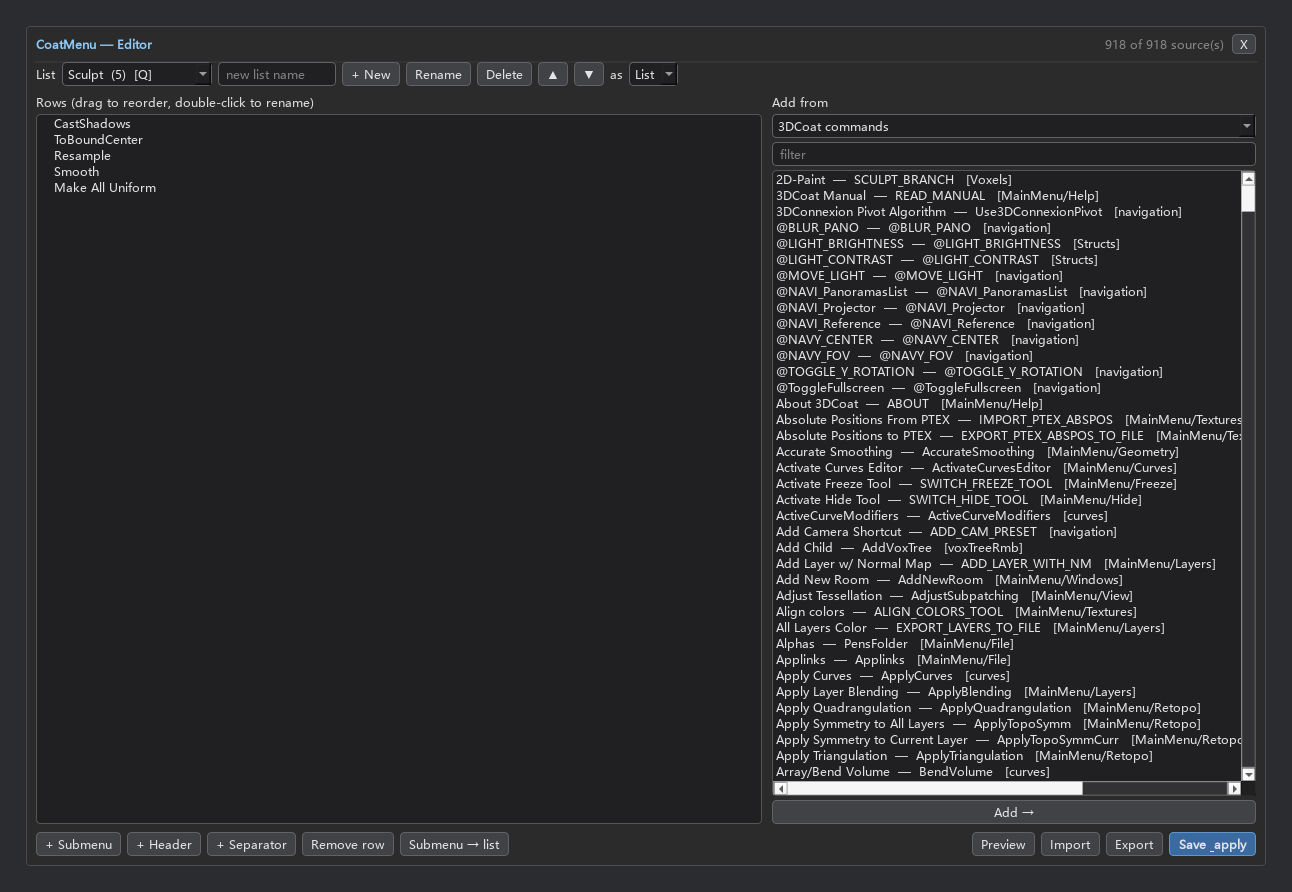
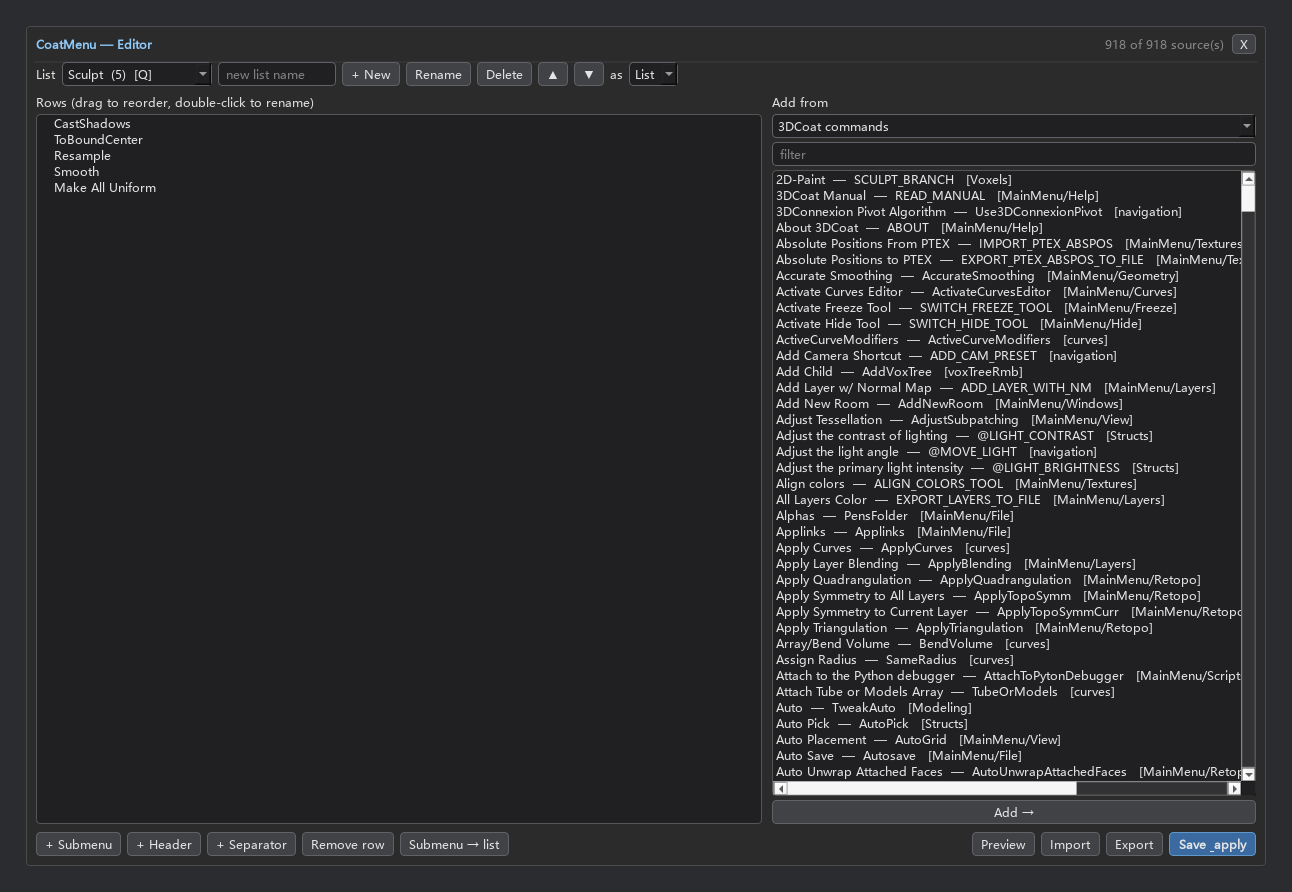
Common list, and command names that read like 3DCoat's own menus
Two things the 918-entry command list was missing.

Names: 3DCoat writes its own readable name in the trailing comment of each
menu_item call ("coat.menu_item(\"UNDO\")  # Undo") and the parser was throwing
that away - it only used the comment to spot commented-out calls. The comment is
now the label whenever English.xml has nothing (734 -> 761 readable names here),
and a name discovered later wins over a bare id, because the room scripts repeat
main-menu ids without the comment. 160 entries stay bare ids on purpose: those
really have no name in 3DCoat, and inventing one would be worse.

Simpler labels: labels carry {CY}...{C} colour and {maticon ...} icon markers -
UI instructions, not words. clean_label() strips them and the stray spaces they
leave behind ("( Baked )" -> "(Baked)"), for menu definitions and the English.xml
table alike.

Common list: the everyday commands - Undo/Redo, the transform set, shading,
freeze, symmetry, hide, layers - taken from 3DCoat's own main menus, so the
grouping is 3DCoat's and not our guesswork (marker common/1, 142 commands in 6
groups here).

Changed region(s): [[0.5882, 0.2422, 0.9598, 0.8778]]

diff --git a/coat_side/coatmenu/core/catalog.py b/coat_side/coatmenu/core/catalog.py
@@ -117,8 +117,20 @@ def english_xml_path() -> str:
 # ---------------------------------------------------------------------------
 
 _HOTKEY_BLOCK = re.compile(r"<OneHotKey>(.*?)</OneHotKey>", re.S)
-_MENU_ITEM = re.compile(r'menu_item\(\s*"([^"\n]+)"\s*\)')
+_MENU_ITEM = re.compile(r'menu_item\(\s*"([^"\n]+)"\s*\)\s*(?:#\s*(.*))?')
 _TEXT_ITEM = re.compile(r"<TextItem>(.*?)</TextItem>", re.S)
+# 3DCoat decorates its own labels with colour and icon markers: {CY}…{C},
+# {maticon bool_intersection}. They are instructions to the UI, not words.
+_UI_MARKS = re.compile(r"\{[^}]*\}")
+
+
+def clean_label(text: str) -> str:
+    """Drop 3DCoat's UI markers and squeeze whitespace out of a label."""
+    text = _UI_MARKS.sub(" ", text or "")
+    # Removing a marker can leave " ( Baked )" behind.
+    text = re.sub(r"\(\s+", "(", text)
+    text = re.sub(r"\s+\)", ")", text)
+    return " ".join(text.split()).strip()
 
 
 def _tag(block: str, name: str) -> str:
@@ -156,14 +168,26 @@ def read_menu_commands(root: str | None = None) -> list[CommandEntry]:
             if parent and parent != os.path.basename(root):
                 group = f"{parent}/{group}"
             for line in _read_text(os.path.join(dirpath, name)).splitlines():
-                code = line.split("#", 1)[0]  # ignore commented-out calls
-                for match in _MENU_ITEM.finditer(code):
+                if line.lstrip().startswith("#"):
+                    continue  # a commented-out call is not a command
+                for match in _MENU_ITEM.finditer(line):
                     # Some definitions write menu_item("$ID"); normalise it away,
                     # otherwise the id neither sorts nor looks up its name.
                     cid = match.group(1).strip().lstrip("$")
-                    if not cid or cid in out:
+                    if not cid:
                         continue
-                    out[cid] = CommandEntry(cid=cid, label=cid, source="menu", hint=group)
+                    # 3DCoat puts its own readable name in the trailing comment
+                    # ("coat.menu_item(\"UNDO\")  # Undo"), which is a better
+                    # label than the id when English.xml has no entry.
+                    label = clean_label(match.group(2) or "") or cid
+                    existing = out.get(cid)
+                    if existing is not None:
+                        # Room scripts repeat main-menu ids without that comment,
+                        # so a later definition can still know the name.
+                        if label != cid and existing.label == cid:
+                            existing.label = label
+                        continue
+                    out[cid] = CommandEntry(cid=cid, label=label, source="menu", hint=group)
     return sorted(out.values(), key=lambda e: (e.hint, e.cid))
 
 
@@ -398,11 +422,11 @@ def read_translations(path: str | None = None) -> dict[str, str]:
         name = _tag(block, "Text")
         if not cid or not name or cid in out:
             continue
-        name = re.sub(r"<[^>]+>", "", name)
-        name = " ".join(name.split())
+        name = clean_label(re.sub(r"<[^>]+>", "", name))
         for entity, char in (("&lt;", "<"), ("&gt;", ">"), ("&quot;", '"'),
                              ("&apos;", "'"), ("&amp;", "&")):
             name = name.replace(entity, char)
+        name = clean_label(name)
         if not name or len(name) > 60:
             continue
         out[cid] = name

diff --git a/coat_side/coatmenu/core/presets.py b/coat_side/coatmenu/core/presets.py
@@ -73,8 +73,8 @@ FFD_PRIMITIVES: list[tuple[str, str]] = [
 # Version markers for the lists we ship: bump the number when the preset changes
 # so the installer refreshes the user's copy (a hand-built list of the same name
 # has no marker and is never touched).
-PRESET_MARKERS = {"Prims": "prims/2", "Tools": "tools/1", "Presets": "presets/1",
-                  "LKS": "lks/1"}
+PRESET_MARKERS = {"Common": "common/1", "Prims": "prims/2", "Tools": "tools/1",
+                  "Presets": "presets/1", "LKS": "lks/1"}
 
 
 def builtin_row(label: str, param: str) -> MenuItem:
@@ -176,15 +176,52 @@ def lks_list(mode: str = LIST) -> MenuList:
                     preset=PRESET_MARKERS["LKS"])
 
 
+# The main menus whose commands get reached for constantly. Using 3DCoat's own
+# grouping keeps "common" 3DCoat's opinion rather than ours.
+COMMON_MENUS = ("Edit", "View", "Freeze", "Symmetry", "Hide", "Layers")
+
+
+def common_groups(menus: tuple[str, ...] = COMMON_MENUS) -> list[tuple[str, list[MenuItem]]]:
+    """(menu name, rows) for the everyday commands, in 3DCoat's own order."""
+    wanted = {name.lower() for name in menus}
+    found: dict[str, list[MenuItem]] = {}
+    for entry in catalog.read_all_commands():
+        hint = entry.hint or ""
+        if not hint.startswith("MainMenu/"):
+            continue
+        name = hint.split("/", 1)[1]
+        if name.lower() not in wanted:
+            continue
+        found.setdefault(name, []).append(
+            MenuItem(label=entry.label, kind=COMMAND, cid=entry.cmd_string))
+    return [(name, found[name]) for name in menus if name in found]
+
+
+def common_list(mode: str = LIST) -> MenuList:
+    """The ``Common`` list: everyday commands, grouped as 3DCoat groups its menus.
+
+    Undo/Redo and the transform commands live here, along with view shading,
+    freeze, symmetry and hide - the things reached for between sculpt strokes.
+    """
+    items: list[MenuItem] = []
+    for name, rows in common_groups():
+        items.append(submenu(f"{name}  ({len(rows)})", rows))
+    if not items:
+        items.append(header("no main-menu commands found"))
+    return MenuList(name="Common", items=items, mode=mode,
+                    preset=PRESET_MARKERS["Common"])
+
+
 def install_presets(config: MenuConfig,
-                    names: tuple[str, ...] = ("Prims", "Tools", "Presets", "LKS")) -> list[str]:
+                    names: tuple[str, ...] = ("Common", "Prims", "Tools", "Presets", "LKS")
+                    ) -> list[str]:
     """Add missing preset lists, and refresh ones shipped by an older version.
 
     A preset list is recognised by its ``preset`` marker: a list you built by
     hand - even one called ``Prims`` - has no marker and is never touched.
     """
-    built = {"Prims": primitives_list, "Tools": tools_list, "Presets": presets_list,
-             "LKS": lks_list}
+    built = {"Common": common_list, "Prims": primitives_list, "Tools": tools_list,
+             "Presets": presets_list, "LKS": lks_list}
     added: list[str] = []
     for name in names:
         make = built.get(name)

diff --git a/tests/test_catalog.py b/tests/test_catalog.py
@@ -63,6 +63,9 @@ with open(os.path.join(CMAKE, "MainMenu", "File.py"), "w", encoding="utf-8") as 
         '    coat.menu_item("OPEN_FILE")   # Open\n'
         '    # coat.menu_item("COMMENTED_OUT")\n'
     )
+with open(os.path.join(CMAKE, "MainMenu", "Edit.py"), "w", encoding="utf-8") as fh:
+    fh.write('coat.menu_item("UNDO")  # Undo\n'
+             'coat.menu_item("TRANSFORM_TRANSLATE_X")  # Move along the X-axis\n')
 with open(os.path.join(CMAKE, "sculptTools.py"), "w", encoding="utf-8") as fh:
     fh.write(
         'import coat\n'
@@ -196,10 +199,25 @@ check(find_trigger_vk(["CoatMenu_Show", "execute:C:\\t\\actions\\CoatMenu_Show.p
 
 print("== 3DCoat's own menu definitions (authoritative, cannot be corrupted) ==")
 menu = catalog.read_menu_commands()
-check(len(menu) == 3, f"menu_item ids extracted ({sorted(e.cid for e in menu)})")
+by_menu_id = {e.cid: e for e in menu}
+check(len(menu) == 5, f"menu_item ids extracted ({sorted(by_menu_id)})")
 check(all(e.cid != "COMMENTED_OUT" for e in menu), "commented-out calls ignored")
 check(any(e.hint == "MainMenu/File" for e in menu), "group carries the source file")
+check(by_menu_id["CLEARSCENE"].label == "New",
+      "the trailing comment is 3DCoat's own name for the entry")
+check(by_menu_id["TRANSFORM_TRANSLATE_X"].label == "Move along the X-axis",
+      "so commands read like the menu instead of like their id")
+check(by_menu_id["BaseVoxBrush"].label == "BaseVoxBrush",
+      "an entry without a comment keeps its id")
 check(catalog.install_root() == INSTALL, "install root taken from coat.io.installPath()")
+
+print("== labels are cleaned of 3DCoat's UI markers ==")
+check(catalog.clean_label("{CY}Import for Sculpt{C}") == "Import for Sculpt",
+      "colour markers come out")
+check(catalog.clean_label("{maticon bool_intersection} Live Intersection") == "Live Intersection",
+      "and so do icon markers")
+check(catalog.clean_label("Paint Mesh ( Baked )") == "Paint Mesh (Baked)",
+      "including the spaces a marker leaves behind")
 
 print("== readable names from English.xml ==")
 names = catalog.read_translations()
@@ -253,6 +271,16 @@ check([e.label for e in saved] == ["HS_Extrude", "HS_分层Split"],
       f"({[e.label for e in saved]})")
 check(saved[1].cid == "HS_分层Split", "the real (non-ASCII) name is the payload")
 check(saved[0].source == "preset", "and it is tagged as a preset source")
+
+print("== the Common list (everyday commands, 3DCoat's own grouping) ==")
+groups = presets.common_groups()
+check([name for name, _ in groups] == ["Edit"],
+      f"only the menus we ask for ({[name for name, _ in groups]})")
+check([i.label for i in groups[0][1]] == ["Move along the X-axis", "Undo"],
+      f"named like the catalog ({[i.label for i in groups[0][1]]})")
+common = presets.common_list()
+check([i.label for i in common.items] == ["Edit  (2)"], "and it becomes one submenu per menu")
+check(common.preset == "common/1", "with its own marker")
 
 print("== LKS radial menus (read-only import) ==")
 from coatmenu.core import lks  # noqa: E402

diff --git a/tests/render_preview.py b/tests/render_preview.py
@@ -283,3 +283,21 @@ if lks_branch >= 0:
 lks_widget.dismiss()
 app.processEvents()
 print(f"lks preview: {len(lks_preset.items)} menu(s)")
+
+# 13. the Common list - everyday commands, grouped like 3DCoat's main menu
+common = presets.common_list()
+manager.show_menu(common.items, anchor=QPoint(120, 90), title=common.name)
+common_widget = manager.popup
+app.processEvents()
+compose(os.path.join(OUT_DIR, "preview-common.png"), [common_widget])
+common_branch = common_widget._first_branch()
+if common_branch >= 0:
+    common_widget._hover = common_branch
+    common_widget._open_child(common_branch)
+    app.processEvents()
+    compose(os.path.join(OUT_DIR, "preview-common-sub.png"),
+            [common_widget, common_widget._child])
+common_widget.dismiss()
+app.processEvents()
+print(f"common preview: {len(common.items)} group(s), "
+      f"{sum(len(i.children) for i in common.items)} commands")
